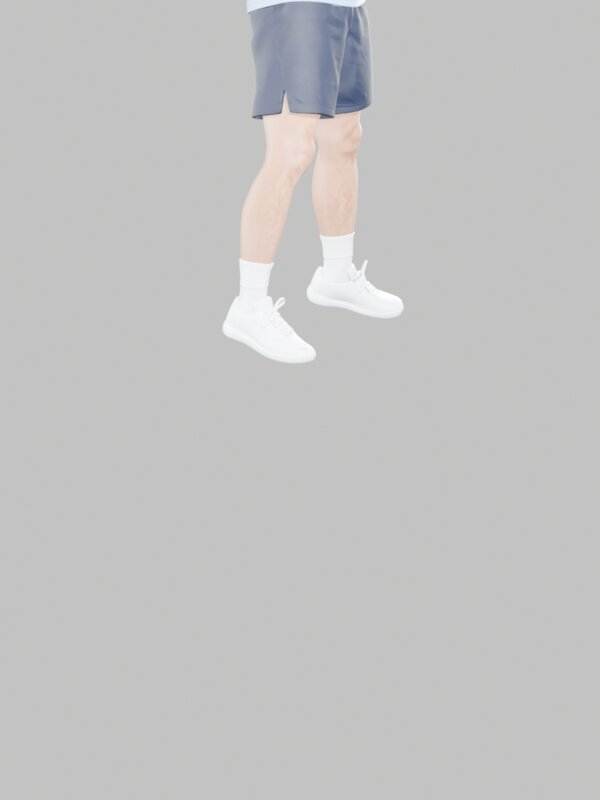
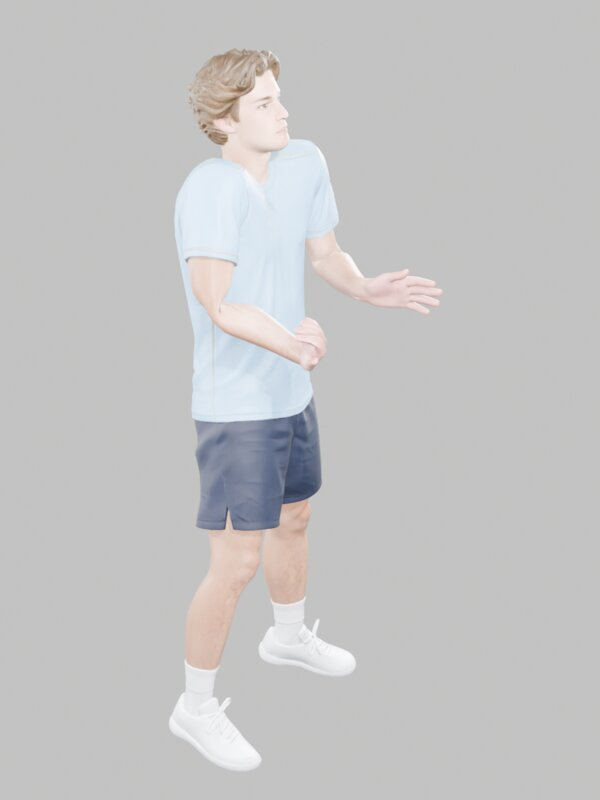
Scorecard: audited evidence lines, gold-standard note, cast render fixes

Changed region(s): [[0.27, 0.0, 0.75, 0.9688]]

diff --git a/index.html b/index.html
@@ -23,7 +23,7 @@ h4.shot{font-size:14px;color:var(--ink);margin:16px 0 8px;font-weight:600}
 .how{display:grid;grid-template-columns:minmax(0,1fr) minmax(0,1.3fr);gap:28px;align-items:start}
 .tools{display:grid;gap:8px}.tool{display:flex;gap:12px;align-items:flex-start;border:1px solid var(--line);border-radius:8px;padding:10px 12px}
 .tool .logo,.tool .mono{width:34px;height:34px;flex:none;border-radius:7px;object-fit:contain;background:#f5f7fa;padding:5px}
-.tool .mono{display:grid;place-items:center;font-size:11px;font-weight:700;color:var(--blue)}
+.tool .mono{display:grid;place-items:center;font-size:11px;font-weight:700;color:var(--blue)}.tool .logo.dark{background:#1b1f1c}
 .tool b{display:block;font-size:14px}.tool span{display:block;font-size:13px;color:var(--muted)}.tool .cost{color:var(--ink);font-size:12px;margin-top:2px}
 .pipe{list-style:none;margin:0;padding:0;display:grid;grid-template-columns:repeat(auto-fit,minmax(150px,1fr));gap:8px;counter-reset:s}
 .pipe li{border:1px solid var(--line);border-radius:8px;padding:10px 12px;position:relative;font-size:13px}
@@ -70,7 +70,7 @@ footer{margin-top:64px;padding-top:14px;border-top:1px solid var(--line);font-si
 <p class="lede">Tennis video to 3D motion, rackets and bodies; scenes, films and thumbnails for jerrythegoat.com. One section per process: the stack and pipeline first, then the results. Videos play on their own; the small i on each card opens what ran, on what, and why it passed or failed.</p>
 <section class="process" id="flowhmr">
 <header><h2>Video to motion</h2><p>One camera, one point, a body that moves like the player.</p></header>
-<div class="how"><div><h3>Stack</h3><div class="tools"><div class="tool"><img src="media/logos/modal-fav.png" loading="lazy" alt="" class="logo"><div><b>Modal</b><span>Rented GPUs (T4, L40S, A100). Runs every model below per clip.</span><span class="cost">$14.44 metered this month, $0 billed</span></div></div><div class="tool"><span class="mono">HMR</span><div><b>FlowHMR</b><span>Body motion and shape from one camera.</span><span class="cost">open weights, about $0.30 per clip on Modal</span></div></div><div class="tool"><span class="mono">RV</span><div><b>RacketVision</b><span>Five racket keypoints per frame (AAAI 2026).</span><span class="cost">about $0.02 per clip</span></div></div><div class="tool"><span class="mono">PY</span><div><b>Arm solver</b><span>Local Python: racket through forearm and wrist, contact rule, ball audit.</span><span class="cost">$0</span></div></div><div class="tool"><img src="media/logos/blender.svg" loading="lazy" alt="" class="logo"><div><b>Blender</b><span>Racket model, binding, four-up renders, GLB export.</span><span class="cost">$0</span></div></div></div></div><div><h3>Pipeline</h3><ol class="pipe"><li><span class="n">1</span><b>Pick a clip</b><span>YouTube court-level footage, player large in frame, cut to one point</span></li><li><span class="n">2</span><b>Body</b><span>FlowHMR on Modal: joints, shape, camera per frame</span></li><li><span class="n">3</span><b>Racket points</b><span>RacketVision on Modal: 5 keypoints where visible</span></li><li><span class="n">4</span><b>Racket through the arm</b><span>forearm twist, wrist angle, spin cap; stance rule where hidden</span></li><li><span class="n">5</span><b>Contact rule</b><span>label contact frame and shot type; pin the face angle</span></li><li><span class="n">6</span><b>Render</b><span>Blender: source, front, side, back; GLB for the web</span></li></ol></div></div>
+<div class="how"><div><h3>Stack</h3><div class="tools"><div class="tool"><img src="media/logos/modal.svg" loading="lazy" alt="" class="logo dark"><div><b>Modal</b><span>Rented GPUs (T4, L40S, A100). Runs every model below per clip.</span><span class="cost">$14.44 metered this month, $0 billed</span></div></div><div class="tool"><span class="mono">HMR</span><div><b>FlowHMR</b><span>Body motion and shape from one camera.</span><span class="cost">open weights, about $0.30 per clip on Modal</span></div></div><div class="tool"><span class="mono">RV</span><div><b>RacketVision</b><span>Five racket keypoints per frame (AAAI 2026).</span><span class="cost">about $0.02 per clip</span></div></div><div class="tool"><span class="mono">PY</span><div><b>Arm solver</b><span>Local Python: racket through forearm and wrist, contact rule, ball audit.</span><span class="cost">$0</span></div></div><div class="tool"><img src="media/logos/blender.svg" loading="lazy" alt="" class="logo"><div><b>Blender</b><span>Racket model, binding, four-up renders, GLB export.</span><span class="cost">$0</span></div></div></div></div><div><h3>Pipeline</h3><ol class="pipe"><li><span class="n">1</span><b>Pick a clip</b><span>YouTube court-level footage, player large in frame, cut to one point</span></li><li><span class="n">2</span><b>Body</b><span>FlowHMR on Modal: joints, shape, camera per frame</span></li><li><span class="n">3</span><b>Racket points</b><span>RacketVision on Modal: 5 keypoints where visible</span></li><li><span class="n">4</span><b>Racket through the arm</b><span>forearm twist, wrist angle, spin cap; stance rule where hidden</span></li><li><span class="n">5</span><b>Contact rule</b><span>label contact frame and shot type; pin the face angle</span></li><li><span class="n">6</span><b>Render</b><span>Blender: source, front, side, back; GLB for the web</span></li></ol></div></div>
 <h3>Court level, behind the player, 30 fps, 1080p from 4K</h3>
 <p class="note">The recipe that worked. Same steps on every point; differences are the player, the contacts and how much of the swing the detector saw.</p>
 <h4 class="shot">Serves</h4><div class="grid"><article class="card video" id="shelton-serve-b" tabindex="0">
@@ -678,9 +678,9 @@ footer{margin-top:64px;padding-top:14px;border-top:1px solid var(--line);font-si
 </article><article class="card image portrait" id="cast-bruin" tabindex="0">
 <div class="front">
 <div class="media"><img src="media/cast/bruin.jpg" loading="lazy" alt="" class=""></div>
-<div class="cap"><h4>Bruin mascot</h4><div class="meta">Meshy · not live · <b class="v mid">built</b></div></div>
+<div class="cap"><h4>UCLA figure<span class="sub">Shipped as bruin.glb</span></h4><div class="meta">Meshy · not live · <b class="v mid">built</b></div></div>
 </div>
-<div class="back"><div class="kv-wrap"><h4>Bruin mascot</h4><div class="kv"><span>Source</span><p>Text prompt</p></div><div class="kv"><span>What ran</span><p>Meshy.</p></div><div class="kv"><span>Result</span><p>Not used on the live page.</p></div><div class="kv"><span>Cost</span><p>not recorded</p></div></div></div>
+<div class="back"><div class="kv-wrap"><h4>UCLA figure</h4><div class="kv"><span>Source</span><p>Text prompt</p></div><div class="kv"><span>What ran</span><p>Meshy pipeline.</p></div><div class="kv"><span>Result</span><p>Not used on the live page.</p></div><div class="kv"><span>Cost</span><p>not recorded</p></div></div></div>
 <button class="flip" type="button" aria-label="Details">i</button>
 </article></div><h3>Tennis: likeness attempts</h3>
 <div class="grid"><article class="card io" id="meshy-64" tabindex="0">
@@ -835,7 +835,7 @@ footer{margin-top:64px;padding-top:14px;border-top:1px solid var(--line);font-si
 <button class="flip" type="button" aria-label="Details">i</button>
 </article></div>
 </section>
-<section id="scores"><header><h2>Where it stands</h2><p>Self-assessed, October 2026. Each number links to the evidence above.</p></header><div class="scores"><div class="score"><span class="name">Body motion</span><span class="bar"><i style="width:80%"></i></span><span class="num">8/10</span><span class="why">FlowHMR on court-level footage; accepted across 16 points</span></div><div class="score"><span class="name">Ball</span><span class="bar"><i style="width:80%"></i></span><span class="num">8/10</span><span class="why">ball audit and estimated arcs; hidden where unsupported</span></div><div class="score"><span class="name">Racket model design</span><span class="bar"><i style="width:70%"></i></span><span class="num">7/10</span><span class="why">traced outline, woven strings, drilled grommets; depth approximate</span></div><div class="score"><span class="name">Racket motion</span><span class="bar"><i style="width:60%"></i></span><span class="num">6/10</span><span class="why">solved through the arm; face at contact set by rule; blurred at 30 fps</span></div><div class="score"><span class="name">Skin and face texture, Meshy</span><span class="bar"><i style="width:50%"></i></span><span class="num">5/10</span><span class="why">stylised characters; heads rejected as likeness</span></div><div class="score"><span class="name">Body shape specific to the person</span><span class="bar"><i style="width:20%"></i></span><span class="num">2/10</span><span class="why">every player shares the FlowHMR body; Rodin bodies paused</span></div><div class="score"><span class="name">Skin and face texture, FlowHMR with a rig</span><span class="bar"><i style="width:20%"></i></span><span class="num">2/10</span><span class="why">plain grey body</span></div><div class="score"><span class="name">Face likeness</span><span class="bar"><i style="width:20%"></i></span><span class="num">2/10</span><span class="why">Rodin, UP2You and Meshy all generated a face, none a likeness</span></div></div></section>
+<section id="scores"><header><h2>Where it stands</h2><p>Self-assessed. Scores judge the viewing result, not a measured match to the player. Frame rate matters most for the racket and ball. The gold standard is Hawk-Eye SkeleTRACK: 29 body points and 7 racket points from a stadium camera system, not one YouTube camera. Numbers next to a score come from the cited paper, measured on its own benchmarks, not on this footage.</p></header><div class="scores"><div class="score"><span class="name">Body motion</span><span class="bar"><i style="width:80%"></i></span><span class="num">8/10</span><span class="why">FlowHMR on court-level footage, accepted across 16 points. Judged on how it looks and times, not measured depth: FlowHMR reports 82.47% physical tracking success on Wild-4K (GVHMR 62.82%) and about 57 mm world-aligned joint error on the RICH benchmark. <a href="https://arxiv.org/abs/2610.03691" target="_blank" rel="noopener">paper</a></span></div><div class="score"><span class="name">Ball</span><span class="bar"><i style="width:80%"></i></span><span class="num">8/10</span><span class="why">Ball found in frame and estimated arcs, 30 fps; hidden where unsupported. Not spin or measured 3D flight. RacketVision&#x27;s tennis ball tracker reports recall 0.880. <a href="https://arxiv.org/abs/2511.17045" target="_blank" rel="noopener">paper</a></span></div><div class="score"><span class="name">Racket model design</span><span class="bar"><i style="width:70%"></i></span><span class="num">7/10</span><span class="why">A craft judgement: traced outline, woven strings, drilled grommets; depth and sidewalls approximate.</span></div><div class="score"><span class="name">Racket motion</span><span class="bar"><i style="width:60%"></i></span><span class="num">6/10</span><span class="why">Solved through the arm; face at contact set by rule, not measured. Generous at 30 fps, where the racket is found in only 32 to 40% of frames; fair at 120 fps (81%). RacketVision reaches 89.6% correct keypoints on broadcast clips, with the side points weakest at about 80%. <a href="https://arxiv.org/abs/2511.17045" target="_blank" rel="noopener">paper</a></span></div><div class="score"><span class="name">Skin and face texture, Meshy</span><span class="bar"><i style="width:50%"></i></span><span class="num">5/10</span><span class="why">Fair for outfit and surface, not face: heads were rejected and hands came out as mittens, which Meshy&#x27;s own help page lists as known limits.</span></div><div class="score"><span class="name">Body shape specific to the person</span><span class="bar"><i style="width:20%"></i></span><span class="num">2/10</span><span class="why">A pipeline choice: every player shares the FlowHMR body; Rodin bodies are paused.</span></div><div class="score"><span class="name">Skin and face texture, FlowHMR with a rig</span><span class="bar"><i style="width:20%"></i></span><span class="num">2/10</span><span class="why">Plain grey body.</span></div><div class="score"><span class="name">Face likeness</span><span class="bar"><i style="width:20%"></i></span><span class="num">2/10</span><span class="why">Rodin, UP2You and Meshy all generated a face; none is a likeness, and neither vendor promises one from two or three photos.</span></div></div></section>
 <section id="timeline"><header><h2>Timeline</h2></header><div class="tl"><ol><li><span class="d">Sep 16</span><span>First tennis figure: Meshy 6 Lite from a generated reference image</span></li><li><span class="d">Oct 19–21</span><span>Meshy characters, crowds and props for court stories and the track-sprint demo; Kling motion-control video fails</span></li><li><span class="d">Oct 21–22</span><span>GEM-X and Kimodo mocap tried and dropped; first FlowHMR run; Shelton serve accepted</span></li><li><span class="d">Oct 23–24</span><span>Longer rallies, two-player point, Djokovic body shape</span></li><li><span class="d">Oct 26</span><span>Broadcast and college benchmarks; Meshy heads rejected; detailed rackets traced from manufacturer photos</span></li><li><span class="d">Oct 27</span><span>Rodin bodies through fal.ai; Djokovic 4K crop; UP2You and MICA face tests rejected</span></li><li><span class="d">Oct 28</span><span>16-point rear-court library; racket solved through the arm; 120 fps forehand; face angle fixed at 34 contacts; Rodin bodies paused</span></li></ol><ol class="next"><li><span class="d">next</span><span>Use 120 fps footage only: the single largest gain, at no cost</span></li><li><span class="d">next</span><span>Segment the racket in the lag phase (SAM 2) and fit the silhouette; the head ellipse gives the face angle</span></li><li><span class="d">next</span><span>Hand model (HaMeR or WiLoR) for wrist and grip; calibrate each player&#x27;s grip once</span></li><li><span class="d">next</span><span>Score against hand-marked ground truth: target under 5 px, today 15.5</span></li><li><span class="d">next</span><span>Person-specific body shape and a face that is a likeness</span></li></ol></div></section>
 <footer>
 <span>Footage: Court Level Tennis, Slow-Mo Tennis, TennisTV, UCLA Tennis Consulting (PlaySight). Short excerpts for analysis, each linked to its source and time range.</span>

diff --git a/build.py b/build.py
@@ -74,7 +74,7 @@ def pipeline(steps):
 def stack(items):
     out = []
     for s in items:
-        logo = img(s["logo"], "logo") if s.get("logo") else f'<span class="mono">{e(s.get("mono", s["name"][:2]))}</span>'
+        logo = img(s["logo"], "logo dark" if s.get("dark") else "logo") if s.get("logo") else f'<span class="mono">{e(s.get("mono", s["name"][:2]))}</span>'
         out.append(f'<div class="tool">{logo}<div><b>{e(s["name"])}</b><span>{e(s["role"])}</span><span class="cost">{e(s["cost"])}</span></div></div>')
     return '<div class="tools">' + "".join(out) + "</div>"
 
@@ -101,9 +101,9 @@ def process(p):
 
 def scores():
     rows = "".join(
-        f'<div class="score"><span class="name">{e(s["name"])}</span><span class="bar"><i style="width:{s["score"]*10}%"></i></span><span class="num">{s["score"]}/10</span><span class="why">{e(s["note"])}</span></div>'
+        f'<div class="score"><span class="name">{e(s["name"])}</span><span class="bar"><i style="width:{s["score"]*10}%"></i></span><span class="num">{s["score"]}/10</span><span class="why">{e(s["note"])}{(" <a href=\"" + e(s["ref"]) + "\" target=\"_blank\" rel=\"noopener\">paper</a>") if s.get("ref") else ""}</span></div>'
         for s in G["scores"])
-    return f'<section id="scores"><header><h2>Where it stands</h2><p>Self-assessed, October 2026. Each number links to the evidence above.</p></header><div class="scores">{rows}</div></section>'
+    return f'<section id="scores"><header><h2>Where it stands</h2><p>{e(G.get("scores_note", ""))}</p></header><div class="scores">{rows}</div></section>'
 
 
 def timeline():
@@ -139,7 +139,7 @@ h4.shot{{font-size:14px;color:var(--ink);margin:16px 0 8px;font-weight:600}}
 .how{{display:grid;grid-template-columns:minmax(0,1fr) minmax(0,1.3fr);gap:28px;align-items:start}}
 .tools{{display:grid;gap:8px}}.tool{{display:flex;gap:12px;align-items:flex-start;border:1px solid var(--line);border-radius:8px;padding:10px 12px}}
 .tool .logo,.tool .mono{{width:34px;height:34px;flex:none;border-radius:7px;object-fit:contain;background:#f5f7fa;padding:5px}}
-.tool .mono{{display:grid;place-items:center;font-size:11px;font-weight:700;color:var(--blue)}}
+.tool .mono{{display:grid;place-items:center;font-size:11px;font-weight:700;color:var(--blue)}}.tool .logo.dark{{background:#1b1f1c}}
 .tool b{{display:block;font-size:14px}}.tool span{{display:block;font-size:13px;color:var(--muted)}}.tool .cost{{color:var(--ink);font-size:12px;margin-top:2px}}
 .pipe{{list-style:none;margin:0;padding:0;display:grid;grid-template-columns:repeat(auto-fit,minmax(150px,1fr));gap:8px;counter-reset:s}}
 .pipe li{{border:1px solid var(--line);border-radius:8px;padding:10px 12px;position:relative;font-size:13px}}
